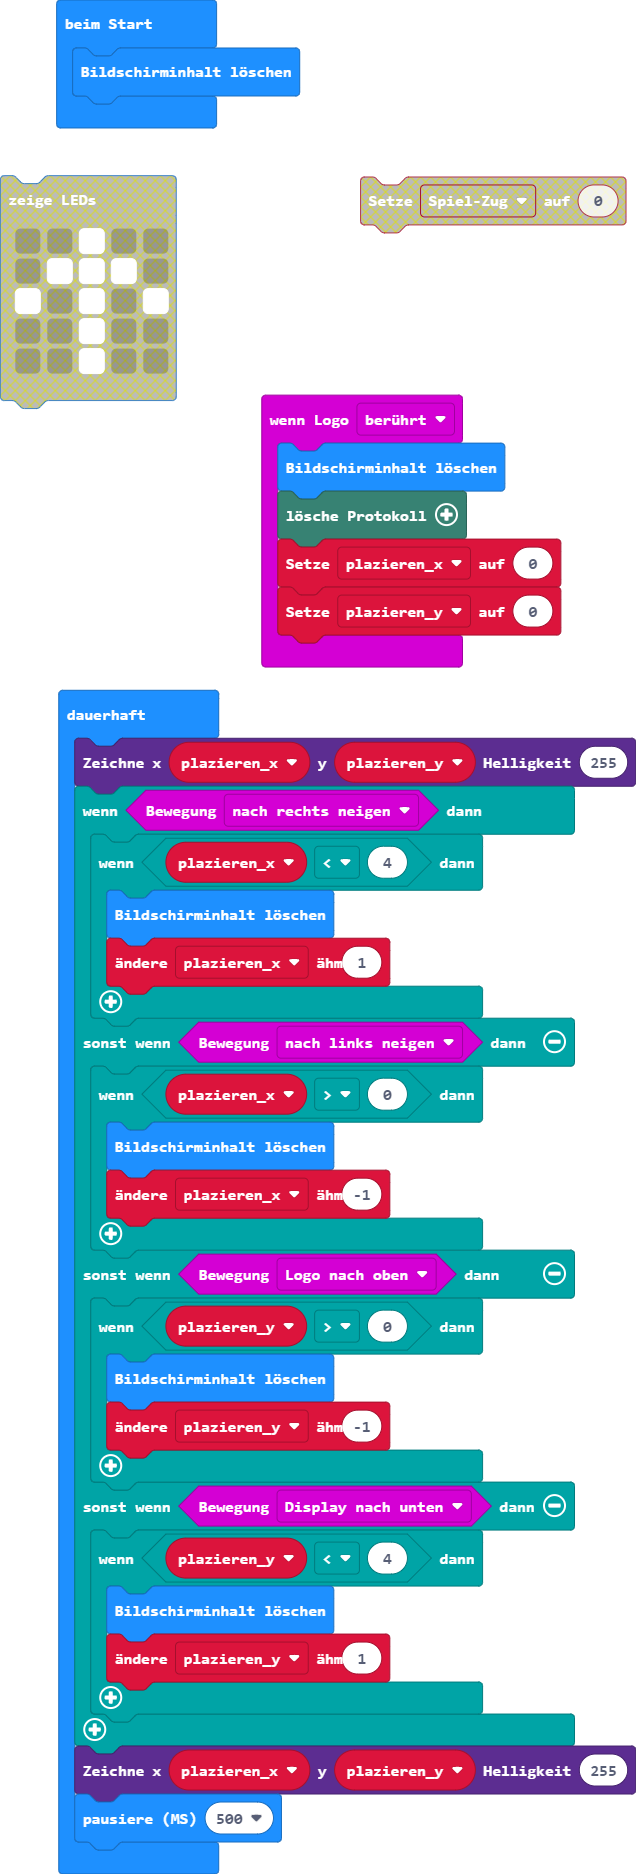
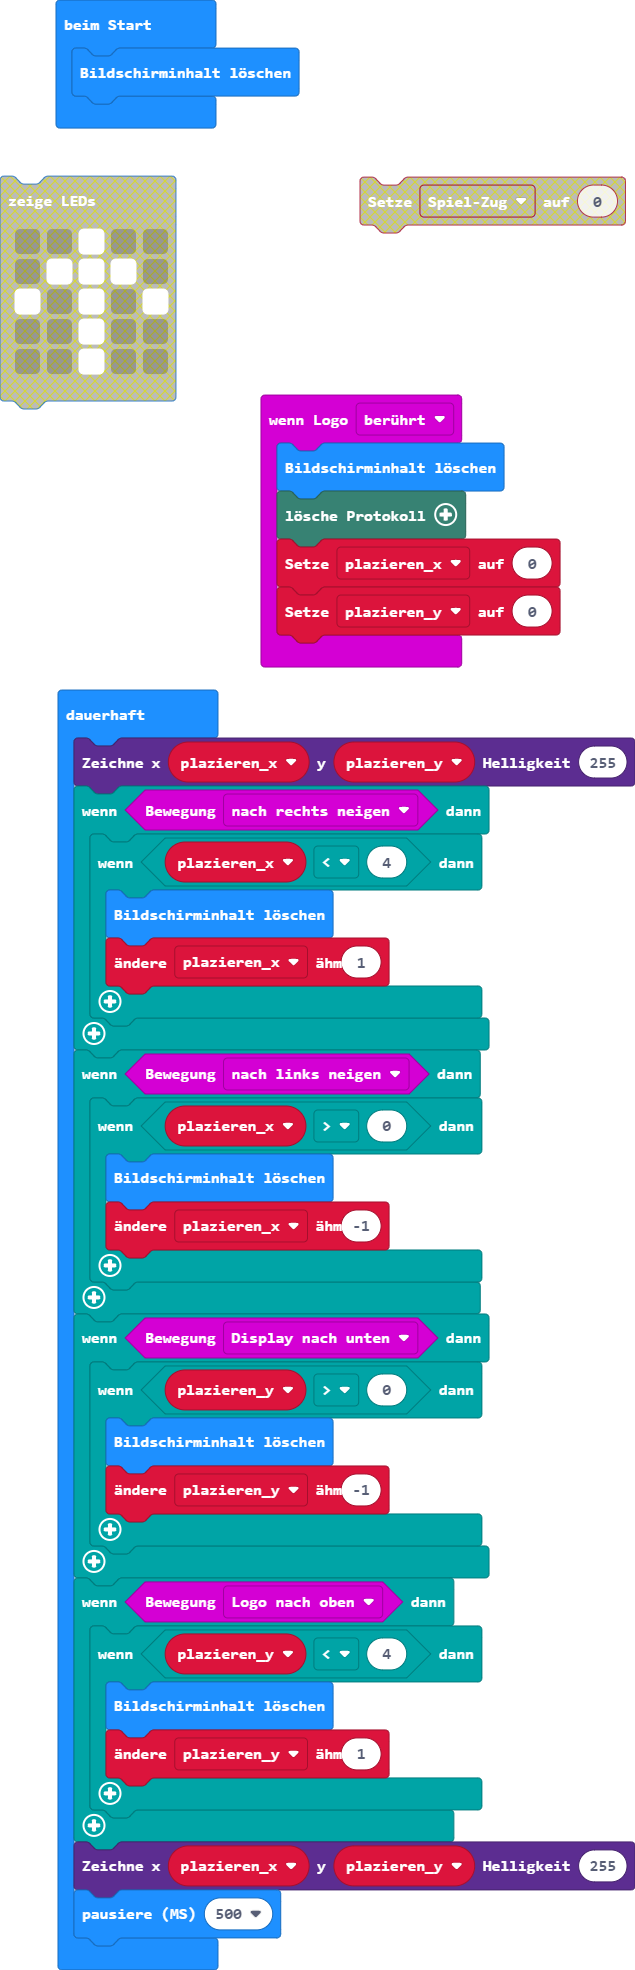
Aktualisiere main.blocks, main.ts

diff --git a/main.ts b/main.ts
@@ -14,17 +14,20 @@ basic.forever(function () {
             basic.clearScreen()
             plazieren_x += 1
         }
-    } else if (input.isGesture(Gesture.TiltLeft)) {
+    }
+    if (input.isGesture(Gesture.TiltLeft)) {
         if (plazieren_x > 0) {
             basic.clearScreen()
             plazieren_x += -1
         }
-    } else if (input.isGesture(Gesture.LogoUp)) {
+    }
+    if (input.isGesture(Gesture.ScreenDown)) {
         if (plazieren_y > 0) {
             basic.clearScreen()
             plazieren_y += -1
         }
-    } else if (input.isGesture(Gesture.ScreenDown)) {
+    }
+    if (input.isGesture(Gesture.LogoUp)) {
         if (plazieren_y < 4) {
             basic.clearScreen()
             plazieren_y += 1
